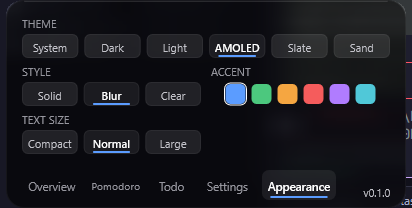
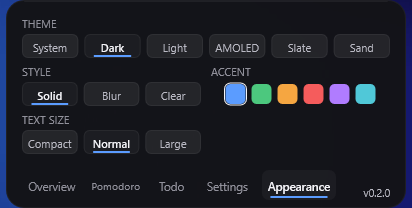
docs: centre the README header and refresh the shots
Lay the header out like a landing page: centred icon, title, tagline,
badge row, download button, and section links. Replace the feature list
with a tight highlight list and move the screenshots into a captioned
two-column table.

Recapture every shot at 0.2.0 with the Dark theme and Solid style,
including the new MONITOR row, and correct the limitation note that
still claimed secondary monitors were unsupported.

diff --git a/README.md b/README.md
@@ -1,79 +1,63 @@
-# Taskbar Stats
+<p align="center">
+  <img src="assets/icon.png" width="96" alt="Taskbar Stats">
+</p>
 
-<img src="assets/icon.png" alt="Taskbar Stats icon" width="96" align="right">
+<h1 align="center">Taskbar Stats</h1>
 
-A lightweight Windows system monitor that lives **inside the taskbar**. It shows
-CPU, GPU, memory, disk, and network activity at a glance, then opens a detail
-panel with a Pomodoro timer, a small task list, and live appearance controls.
+<p align="center">A lightweight Windows system monitor that lives inside the taskbar: CPU, GPU, memory, disk, and network at a glance, plus a detail panel with a Pomodoro timer, a task list, and live appearance controls.</p>
 
-No administrator rights, no background service, and no network access. It uses
-only user-mode Windows APIs.
+<p align="center">
+  <a href="../../releases/latest"><img src="https://img.shields.io/badge/version-0.2.0-5B9CFF?style=flat-square" alt="Version 0.2.0"></a>
+  <img src="https://img.shields.io/badge/Windows-10%20%7C%2011-0078D6?style=flat-square&logo=windows&logoColor=white" alt="Windows 10 and 11">
+  <img src="https://img.shields.io/badge/Rust-2021-000000?style=flat-square&logo=rust&logoColor=white" alt="Rust 2021">
+  <img src="https://img.shields.io/badge/admin-not%20required-22c55e?style=flat-square" alt="No administrator rights">
+  <img src="https://img.shields.io/badge/telemetry-none-64748b?style=flat-square" alt="No telemetry">
+</p>
 
-![Windows 10/11](https://img.shields.io/badge/Windows-10%20%7C%2011-0078D6?logo=windows)
-![Rust](https://img.shields.io/badge/Rust-2021-000000?logo=rust)
-![Version](https://img.shields.io/badge/version-0.1.0-5B9CFF)
+<p align="center">
+  <a href="../../releases/latest"><img src="https://img.shields.io/badge/Download%20for%20Windows-Taskbar%20Stats%200.2.0-e5484d?style=for-the-badge&logo=windows&logoColor=white" alt="Download Taskbar Stats for Windows" height="40"></a>
+</p>
 
-![Taskbar Stats overview](docs/screenshots/overview.png)
+<p align="center">
+  <sub><a href="#-highlights">Highlights</a> · <a href="#-screenshots">Screenshots</a> · <a href="#install">Install</a> · <a href="#usage">Usage</a> · <a href="#configuration">Configuration</a> · <a href="#build-from-source">Build from source</a></sub>
+</p>
 
-## Features
+<br>
 
-- **Taskbar strip** with compact cells for CPU, each detected GPU, memory, local
-  disk usage, and download/upload speed. Every cell has a live value and a
-  utilization or activity bar; temperatures appear where the sensor is available.
-- **Five panel tabs**: **Overview**, **Pomodoro**, **Todo**, **Settings**, and
-  **Appearance**. The tab bar is anchored to the bottom so it never moves out
-  from under the pointer.
-- **Pomodoro timer** with 25/50 minute focus presets, 5/10 minute breaks,
-  start/pause, reset, skip, completed-session count, progress bar, and Windows
-  tray notifications when a phase ends.
-- **Todo list** with add, complete, delete, clear-completed, and paging for more
-  than five tasks. Tasks are saved with the rest of the configuration.
-- **Six color themes**: System, Dark, Light, AMOLED, Slate, and Sand.
-- **Three independent surface styles**: Solid, Blur (a captured desktop blur
-  behind the panel), and Clear (translucent without blur).
-- **Text size control**: Compact, Normal, or Large. Panel geometry, tabs, and
-  controls scale with the text, long labels shrink or ellipsize instead of
-  overflowing, and the strip follows the setting up to its fixed taskbar
-  height.
-- **Per-GPU controls**: each adapter gets its own strip cell and can be shown or
-  hidden independently.
-- **Network speed**: download and upload rates from Windows performance counters,
-  available as an optional `NET` strip cell and in a dedicated `NETWORK` row
-  under the Overview cards.
-- **Smart taskbar placement**: avoids existing taskbar buttons and the
-  notification area, snaps into a free gap, and can be dragged into a new spot.
-- **Tray icon** while the app is running. Left-click it to open the panel;
-  right-click for Settings, Reload config, and Exit.
-- **Start with Windows** toggle in Settings. It registers the current executable
-  in the current user's Run key; no elevation is required.
-- **Display picker**: send the widget to a secondary monitor, so it stays
-  visible while a game runs fullscreen on the primary display.
-- **Live settings**: position, offset, refresh interval, hover delay, memory and
-  disk display modes, widget visibility, per-GPU visibility, text size, startup,
-  themes, styles, accent color, Pomodoro lengths, and reset. Everything saves
-  automatically.
-- **Current version in the panel footer**, taken from the release tag in CI and
-  from the package version for local builds.
-- **Explorer-restart recovery**, single-instance protection, per-monitor DPI
-  support, and a short panel fade that respects the Windows animation setting.
-- **Installer and uninstaller** in the release artifacts, with a portable zip
-  alternative. Both are per-user and do not require elevation.
-- **Local only**: no analytics, no telemetry, no cloud calls, no drivers, and no
-  elevation requirement.
+## ✨ Highlights
 
-## Screenshots
+- Lives inside the taskbar, not in a floating window
+- CPU, GPU, memory, disk, and network in one compact strip
+- Detail panel with Overview, Pomodoro, Todo, Settings, and Appearance
+- Pomodoro timer with focus and break presets and tray notifications
+- Todo list saved with the rest of your configuration
+- Six themes and three independent surface styles
+- Text size that scales the whole panel, never clipping a label
+- Per-GPU cells with individual toggles
+- Display picker, so the strip can follow a secondary monitor
+- Collision-aware placement that avoids other taskbar buttons
+- Drag the strip to any free taskbar gap
+- Tray icon and a Start with Windows toggle
+- Per-monitor DPI, Explorer-restart recovery, single instance
+- Per-user installer and uninstaller, no elevation
+- Local only: no telemetry, no drivers, no network access
 
-| Overview | Pomodoro |
-| --- | --- |
-| <img src="docs/screenshots/overview.png" alt="Overview panel and taskbar strip" width="360"> | <img src="docs/screenshots/pomodoro.png" alt="Pomodoro timer tab" width="360"> |
+## 🖼 Screenshots
 
-| Todo | Settings |
-| --- | --- |
-| <img src="docs/screenshots/todo.png" alt="Todo list tab" width="360"> | <img src="docs/screenshots/settings.png" alt="Settings tab" width="360"> |
-
-| Appearance | Taskbar strip |
-| --- | --- |
-| <img src="docs/screenshots/appearance.png" alt="Appearance tab" width="360"> | <img src="docs/screenshots/strip.png" alt="Taskbar strip with CPU, GPU, memory, disk and network cells" width="420"> |
+<table>
+<tr>
+<td width="50%"><img src="docs/screenshots/overview.png" alt="Overview" width="100%"><p align="center"><b>Overview</b></p></td>
+<td width="50%"><img src="docs/screenshots/pomodoro.png" alt="Pomodoro" width="100%"><p align="center"><b>Pomodoro</b></p></td>
+</tr>
+<tr>
+<td width="50%"><img src="docs/screenshots/todo.png" alt="Todo" width="100%"><p align="center"><b>Todo</b></p></td>
+<td width="50%"><img src="docs/screenshots/settings.png" alt="Settings" width="100%"><p align="center"><b>Settings</b></p></td>
+</tr>
+<tr>
+<td width="50%"><img src="docs/screenshots/appearance.png" alt="Appearance" width="100%"><p align="center"><b>Appearance</b></p></td>
+<td width="50%"><img src="docs/screenshots/strip.png" alt="Taskbar strip" width="100%"><p align="center"><b>Taskbar strip</b></p></td>
+</tr>
+</table>
 
 The screenshots use the built-in Dark theme with the Solid surface style.
 
@@ -178,6 +162,7 @@ are saved immediately. Up to 20 tasks are kept; five are shown per page.
 The Settings tab controls placement and behavior:
 
 - left/right anchor and offset
+- display to place the widget on (`Auto` or a numbered monitor)
 - memory and disk display mode (`GB` or `%`)
 - refresh interval (0.5 s, 1 s, 2 s)
 - hover delay (0, 150, 220, 400 ms)
@@ -285,8 +270,8 @@ cargo test --all-targets
 - **CPU core bars are intentionally absent** from the Overview. Per-core load was
   too small to read at panel scale; the CPU card shows overall load, temperature,
   and thread count instead.
-- The app targets the horizontal primary taskbar. Multi-monitor taskbars and
-  vertical taskbars are not supported yet.
+- The app targets horizontal taskbars on the primary or any secondary monitor.
+  Vertical taskbars are not supported yet.
 - The executable is currently unsigned. Builds are reproducible from source, and
   release artifacts include SHA-256 checksums.
 
